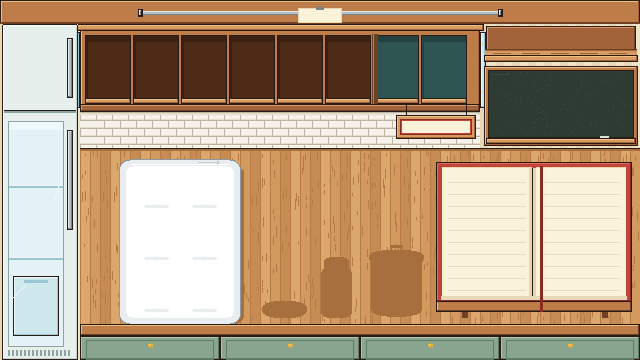
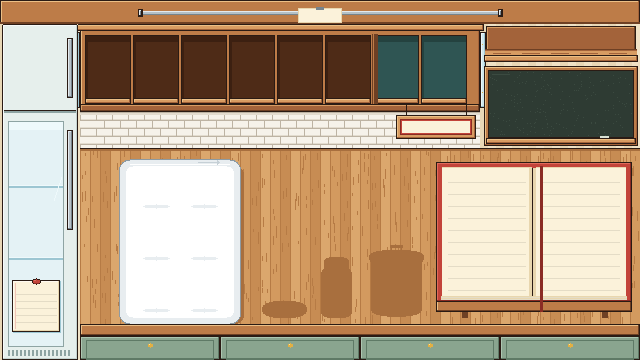
Lives and courses on a paper note magneted to the fridge door (the crisper drawer is gone); a thawed food lands in its own cubby instead of sliding in from the item cubby (market tiles keyed by cubby, not market index)
Claude-Session: https://claude.ai/code/session_01VgiKE18RnCKwAeiJkXAxpP

Changed region(s): [[0.0, 0.7639, 0.0938, 0.9472]]

diff --git a/src/ui/main.ts b/src/ui/main.ts
@@ -1076,14 +1076,16 @@ function marketSlots(): string {
   const items = run.market.map((o, i) => ({ o, i })).filter(({ o }) => o?.kind === 'item');
   // The last teal cubby is the special one (see specialSlot).
   const placed = [
-    ...foods.slice(0, LAYOUT.marketFoodSlots).map((m, k) => ({ ...m, pos: LAYOUT.market[k] })),
-    ...items.slice(0, LAYOUT.market.length - LAYOUT.marketFoodSlots - 1).map((m, k) => ({ ...m, pos: LAYOUT.market[LAYOUT.marketFoodSlots + k] })),
+    ...foods.slice(0, LAYOUT.marketFoodSlots).map((m, k) => ({ ...m, cubby: k })),
+    ...items.slice(0, LAYOUT.market.length - LAYOUT.marketFoodSlots - 1).map((m, k) => ({ ...m, cubby: LAYOUT.marketFoodSlots + k })),
   ];
   return placed
-    .map(({ o, i, pos }) => {
+    .map(({ o, i, cubby }) => {
       if (!o) return '';
+      const pos = LAYOUT.market[cubby];
       const src: OfferSource = { area: 'market', index: i };
-      const key = `${app.run.turn}:${app.marketGen}:${i}`;
+      // Keyed by cubby, not market index: a food thawed in ahead of the item shifts the item's index, not its cubby.
+      const key = `${app.run.turn}:${app.marketGen}:${cubby}`;
       const attrs = `data-drag="offer:market:${i}" data-k="m:${key}" data-in="drop" data-out="drop-out"`;
       return `<div class="slot" style="${at(pos)}" data-offer="market:${i}" data-drop="buffet">${offerTile(o, attrs, isSelectedSrc(src))}</div>
         <div class="price ${offerCost(o) > app.run.gold ? 'dear' : ''}" style="${at([pos[0] + 6, pos[1] + 49])}" data-k="p:${key}" data-in="fade" data-out="drop-out">${pix('coin')}${offerCost(o)}</div>`;
@@ -1370,7 +1372,7 @@ function flavorTip(f: Flavor, n: number): string {
   const rows = FLAVOR_BONUS_LONG[f].map((b, i) => `<p class="tier ${n >= TIER_AT[i] ? 'on' : ''}"><b>${TIER_AT[i]}</b>${b}</p>`).join('');
   const next = tier < 4 ? `<p class="tip-next">${TIER_AT[tier] - n} more different ${f} food${TIER_AT[tier] - n === 1 ? '' : 's'} for the next bonus.${tier >= 2 ? ' Rich foods (Curry, Fudge, Lime, Rice Ball, Miso), Bouillon Cubes, foods with two flavors and Flavor Packets get you there.' : ''}</p>` : '<p class="tip-next">Every bonus is active!</p>';
   const saffron = app.run.plate.some((u) => u && unitDef(u.defId).aura === 'infuse') ? '<p class="dim">Foods next to Saffron count twice.</p>' : '';
-  return tipBox(`${pix(f)} ${f[0].toUpperCase()}${f.slice(1)} on your plate: ${n}`, `<p class="dim">${FLAVOR_ROLE[f]}</p>${rows}${next}${saffron}<p class="dim">Each different food counts once (a rich food as its level number, a Bouillon Cube adds one): copies don't add more.</p>`);
+  return tipBox(`${pix(f)} ${f[0].toUpperCase()}${f.slice(1)} on your plate: ${n}`, `<p class="dim">${FLAVOR_ROLE[f]}</p>${rows}${next}${saffron}`);
 }
 
 /** The glass of a spice jar, inside its prop box: where the spice fills from (bottom) toward the lid (top). */
@@ -2521,7 +2523,9 @@ window.addEventListener('pointerup', (e) => {
   const target = dropTargetAt(e, d.lift);
   // The next render animates from here: the food lands where it was let go (or flies home).
   const r = d.ghost.getBoundingClientRect();
-  const t = target?.getBoundingClientRect();
+  // Dropped on the buffet (a thaw): what lands anywhere on the shelf slides from the drop point.
+  const shelf = target?.dataset.drop === 'buffet' ? root.querySelector<HTMLElement>('.buffet-zone') : null;
+  const t = (shelf ?? target)?.getBoundingClientRect();
   pendingDrop = {
     key: d.el.dataset.k ?? '',
     rect: { left: r.left, top: r.top, width: r.width, height: r.height },

diff --git a/src/ui/style.css b/src/ui/style.css
@@ -162,7 +162,7 @@ body.dragging .slot.empty { outline: 1px dashed rgba(224, 100, 47, 0.9); outline
 .newrun:hover { background: rgba(42, 27, 20, 0.8) !important; }
 
 /* Freezer magnets */
-.magnets { display: flex; flex-direction: column; align-items: center; gap: 5px; padding: 4px 2px; pointer-events: none; }
+.magnets { display: flex; flex-direction: column; align-items: center; gap: 6px; padding: 9px 3px 0 6px; pointer-events: none; }
 .mag-stars { display: flex; flex-wrap: wrap; justify-content: center; gap: 1px 2px; }
 .mag-star { display: inline-flex; }
 .mag-course { display: flex; align-items: center; gap: 2px; font: 400 10px/1 var(--pixel); color: #3a2a22; }

diff --git a/DESIGN.md b/DESIGN.md
@@ -630,7 +630,7 @@ Items are cheap (1 to 5 gold). One-use stat items are a small top-up rather than
 
 ## Look and feel
 
-- **Kitchen:** a slim fridge on the left (its two slots in the glass door, the freezer slot on the top door, lives and courses on the crisper drawer), the cabinet and counter beside it, and on the right the spice rack, a wide chalkboard and a large cookbook (two 90px pages). The market is a cabinet of cubbies (6 brown for foods, a teal one for the item and a gold-tagged special cubby), the plate is a platter on a wooden counter with the counter tray beside it, the fridge and freezer magnets (lives as pixel hearts, courses) are on the left, the tip jar shows gold with the interest you'd earn above it, and the spice rack (flavor counts) and chalkboard (flavor bonus tiers 2·4·6) are on the right. Press the service bell to Serve.
+- **Kitchen:** a slim fridge on the left (its two slots in the glass door, the freezer slot on the top door, lives and courses on a paper note held to the door by a magnet), the cabinet and counter beside it, and on the right the spice rack, a wide chalkboard and a large cookbook (two 90px pages). The market is a cabinet of cubbies (6 brown for foods, a teal one for the item and a gold-tagged special cubby), the plate is a platter on a wooden counter with the counter tray beside it, the fridge and freezer magnets (lives as pixel hearts, courses) are on the left, the tip jar shows gold with the interest you'd earn above it, and the spice rack (flavor counts) and chalkboard (flavor bonus tiers 2·4·6) are on the right. Press the service bell to Serve.
 - **Levels in battle:** the level as a chunky gold number on a dark tab at the food's top-left (orange 3 when cooked). Level 1 has none.
 - **Flavor icons:** every food tile wears its flavor icon small on its right edge (two for a two-flavor food); a food with three or more flavors (soaked-up Tofu, Saffron) shows them smaller, two to a row, so tiles stay clear.
 - **Flavor boards:** each side's active flavor bonuses sit on a little chalkboard under its name plaque (titled "Flavors", one each side): the flavor icon, its count and what it does; hover a line for the full tiers.
